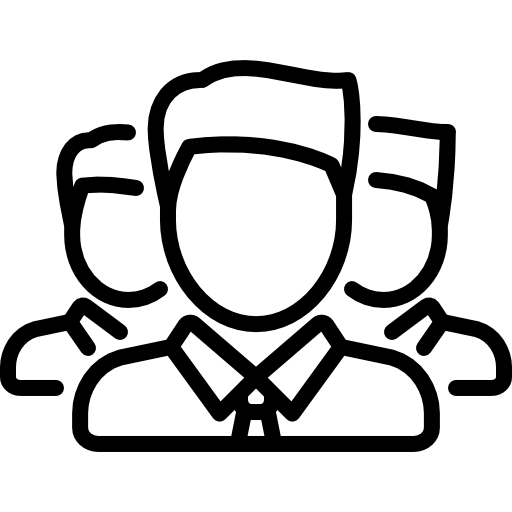
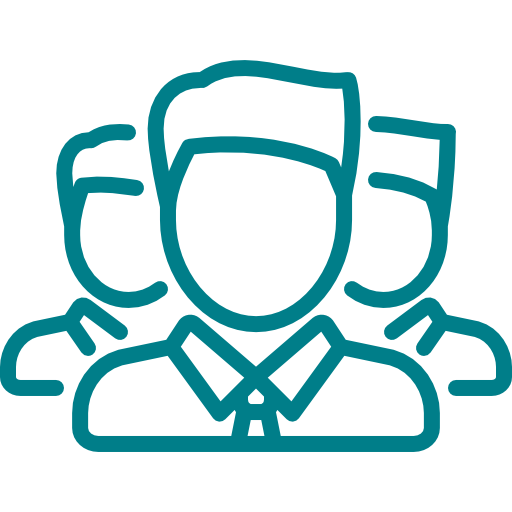
Imágenes
* modificaciones a imágenes (cambio de colores)
* ajustes al área de contacto

Changed region(s): [[0.0, 0.0938, 1.0, 0.9062]]

diff --git a/css/common.css b/css/common.css
@@ -3,6 +3,7 @@ body {
   padding: 0;
   color: #0b2e46;
   font-family: AkkoThin;
+  font-size: 18px;
   background-color:#fef6fa;
 }
 
@@ -45,7 +46,7 @@ p{
 }
 
 #how img{
-  max-width: 70%;
+  max-width: 50%;
 }
 
 #why {
@@ -53,7 +54,7 @@ p{
 }
 
 #why img{
-  max-width: 70%;
+  max-width: 50%;
 }
 
 #why h1 {
@@ -75,13 +76,12 @@ p{
 }
 
 #focus img{
-  max-width: 70%;
+  max-width: 50%;
 }
 
 #focush1 {
   font-size: 3.5em;
-  color: #fff;
-  text-align: justify;
+     color:#f3f3f0;
 }
 
 #contact{
@@ -90,8 +90,13 @@ p{
   background-attachment: fixed;
 }
 
-form{
-  margin-left: -20%;
+#contact .grid-2:nth-of-type(1) {
+   text-align: right;
+}
+
+#contact .grid-2:nth-of-type(2) {
+   color:#f3f3f0;
+   font-size: 30px;
 }
 
 /*%%%%%%%%%%%% NAVBAR %%%%%%%%%%%%*/
@@ -172,6 +177,7 @@ side i {
 
 /* %%%%%%%%%%%% BODY %%%%%%%%%%% */
 .grid {
+  vertical-align: middle;
   display: inline-block;
   margin: 1%;
   padding: 1%;
@@ -201,4 +207,25 @@ section {
 
 #what img {
   width: 50%;
+}
+
+
+/*            FORMS             */
+input, textarea {
+  border-radius: 5px;
+  padding: 5px 10px;
+  font-family: AkkoThin;
+  border: 1px solid #f3f3f0;
+  outline: 0;
+  margin: 5px;
+  background-color: rgba(243,243,240, 0.5);
+  transition: 0.5s;
+  -moz-transition: 0.5s;
+  font-size: 14px;
+}
+
+input:focus, textarea:focus {
+  background-color: rgba(243,243,240, 0.9);
+  transition: 0.5s;
+  -moz-transition: 0.5s;
 }

diff --git a/index.html b/index.html
@@ -98,15 +98,22 @@
 
 
     <section id="contact" name="contact" class=" section-6">
-      <div class="grid grid-2">
+
+    <div class="grid grid-2">
         <h1 id="focush1">We'd love to<br> hear from you</h1>
         <form action="#">
-          <input type="text" name="usrname" placeholder="nombre"> <input type="email" name="usremail" placeholder="email"></br>
-          <br><textarea name=address rows=4 cols=46 placeholder="Descripcion"></textarea>
+          <input type="text" name="usrname" placeholder="Your name"> <input type="email" name="usremail" placeholder="Your e-mail"></br>
+          <br><textarea name=address rows=4 cols=46 placeholder="Leave a message for us! :)"></textarea>
           </br></br>
           <a href="#" class="button call-to-action">Send</a>
         </form>
       </div>
+      <div class="grid grid-2">
+        <img src="images/Logotipo.png"><br>
+          <p>Lima 241, CABA, 1073<p>
+          <p>Argentina</p>
+          <p>+54 11 4510 7200</p>
+        </div>
     </section>
 
   </main>
